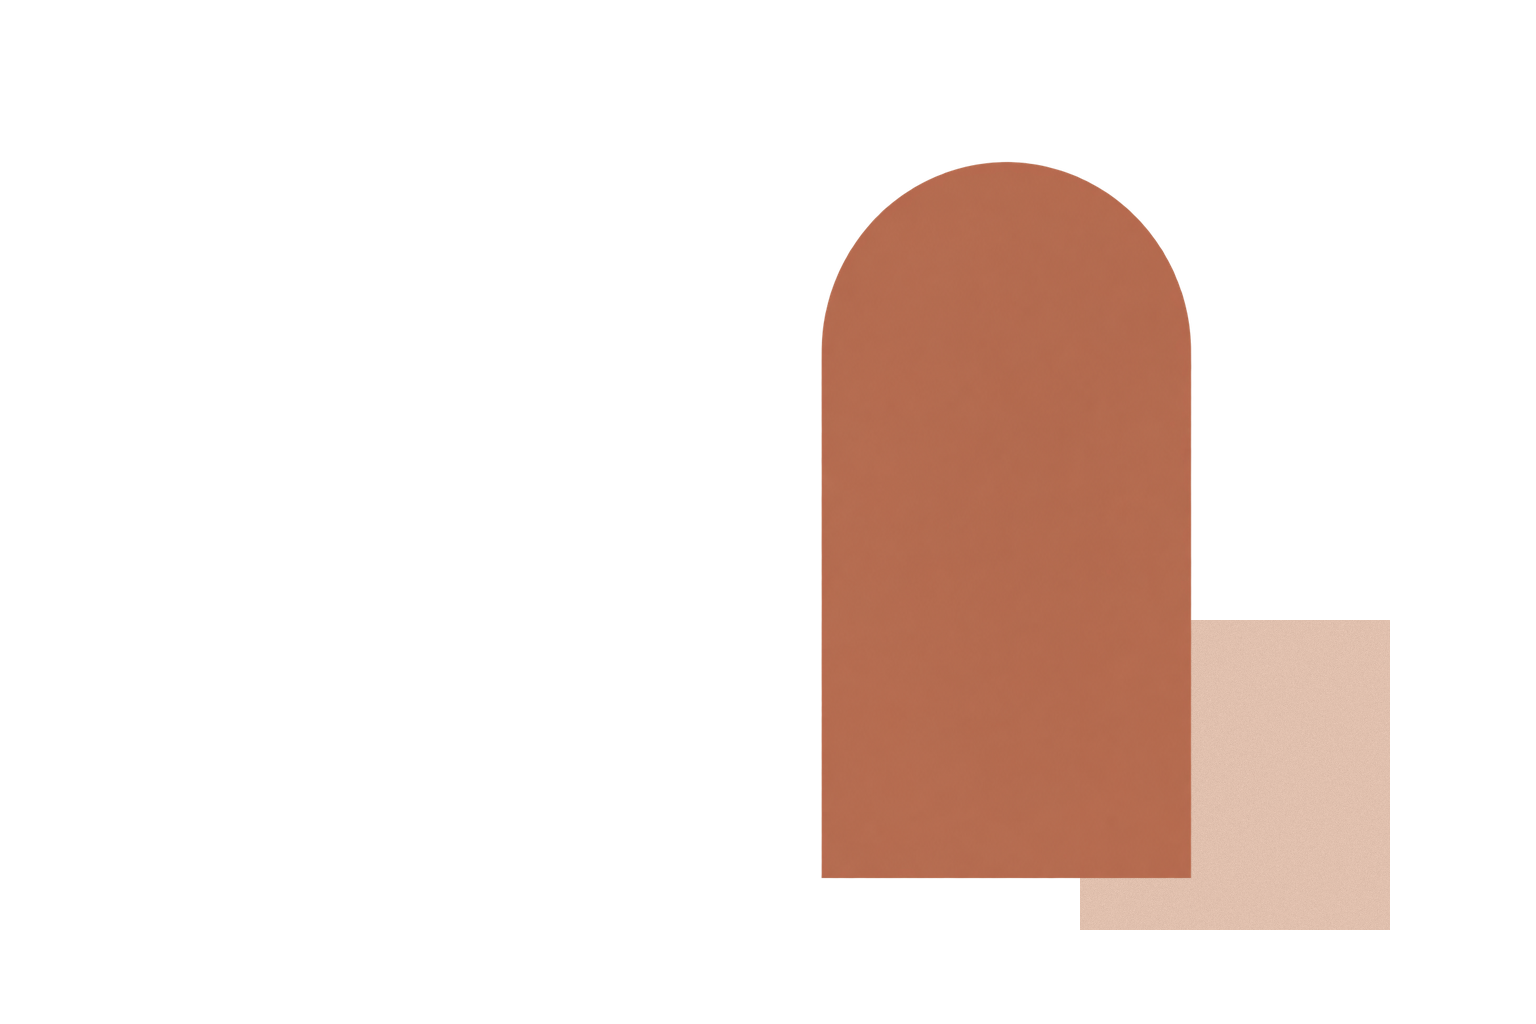
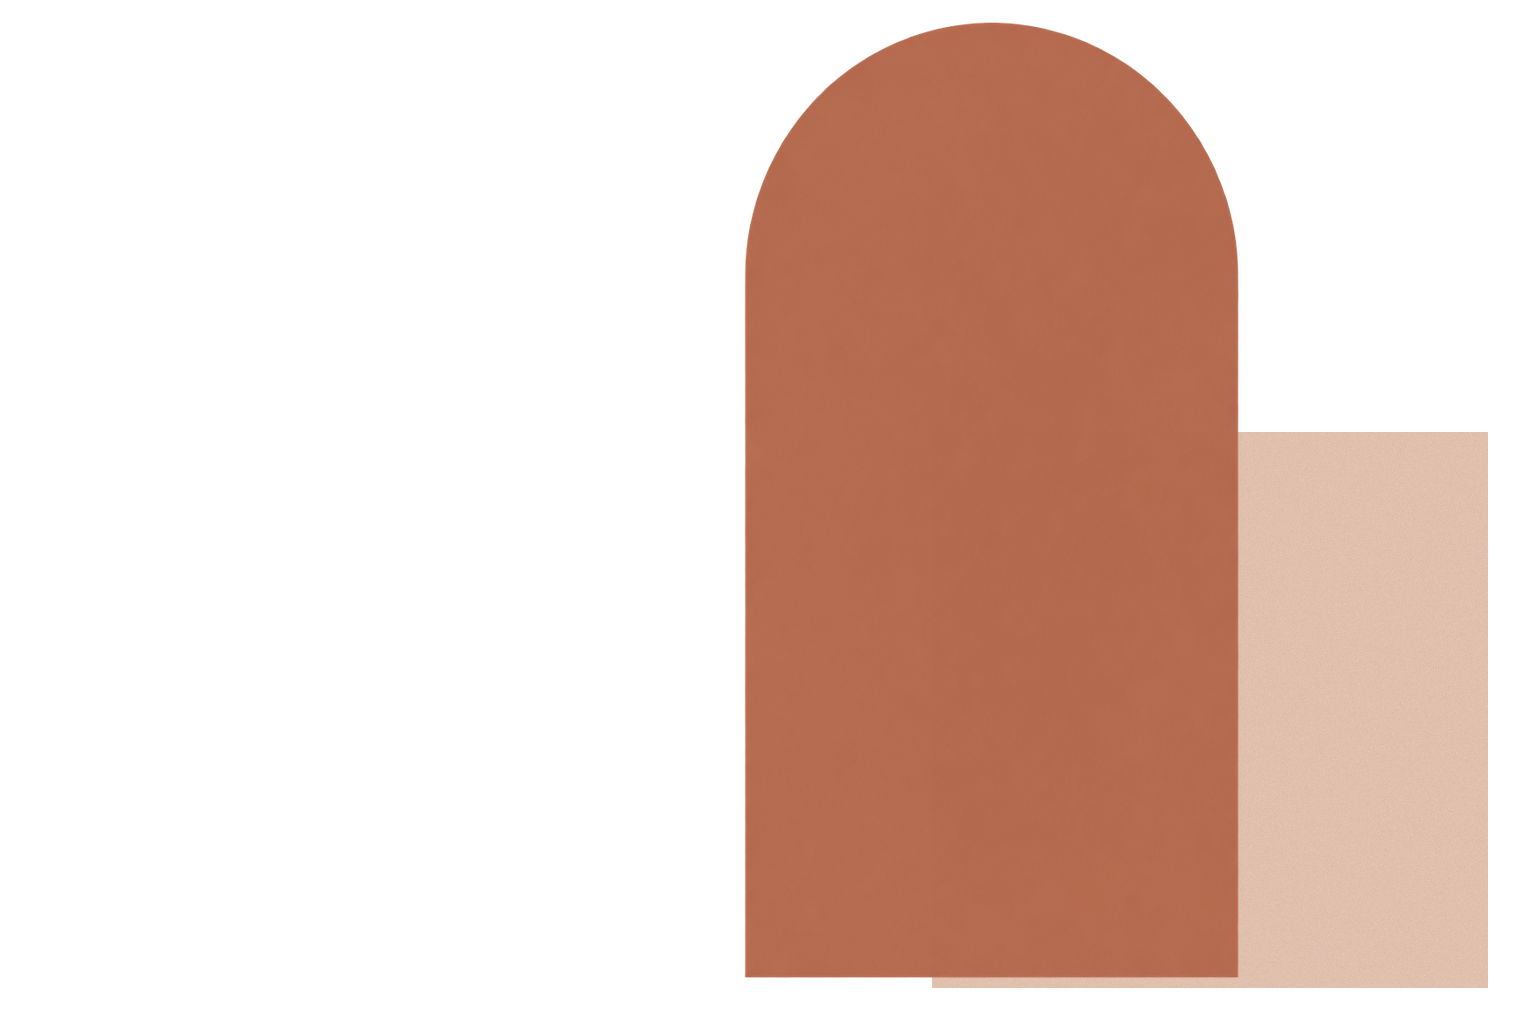
Scale up the hero arch and square relative to each other.
Fills more of the frame so the terracotta pair reads larger on the landing page.

Changed region(s): [[0.4688, 0.0, 0.9688, 0.9688]]

diff --git a/src/styles/global.css b/src/styles/global.css
@@ -3266,11 +3266,11 @@ html.scroll-reveal-enabled .scroll-reveal--delay-2 {
 .home-landing__figure {
   position: absolute;
   top: 58%;
-  left: 30%;
+  left: 26%;
   right: auto;
   bottom: auto;
   z-index: 2;
-  width: min(78vw, 70rem);
+  width: min(88vw, 78rem);
   max-width: none;
   height: auto;
   max-height: none;
@@ -4033,7 +4033,7 @@ html.scroll-reveal-enabled .scroll-reveal--delay-2 {
     right: auto;
     bottom: auto;
     display: block;
-    width: min(100%, 36rem);
+    width: min(100%, 42rem);
     max-width: 100%;
     height: auto;
     max-height: none;
